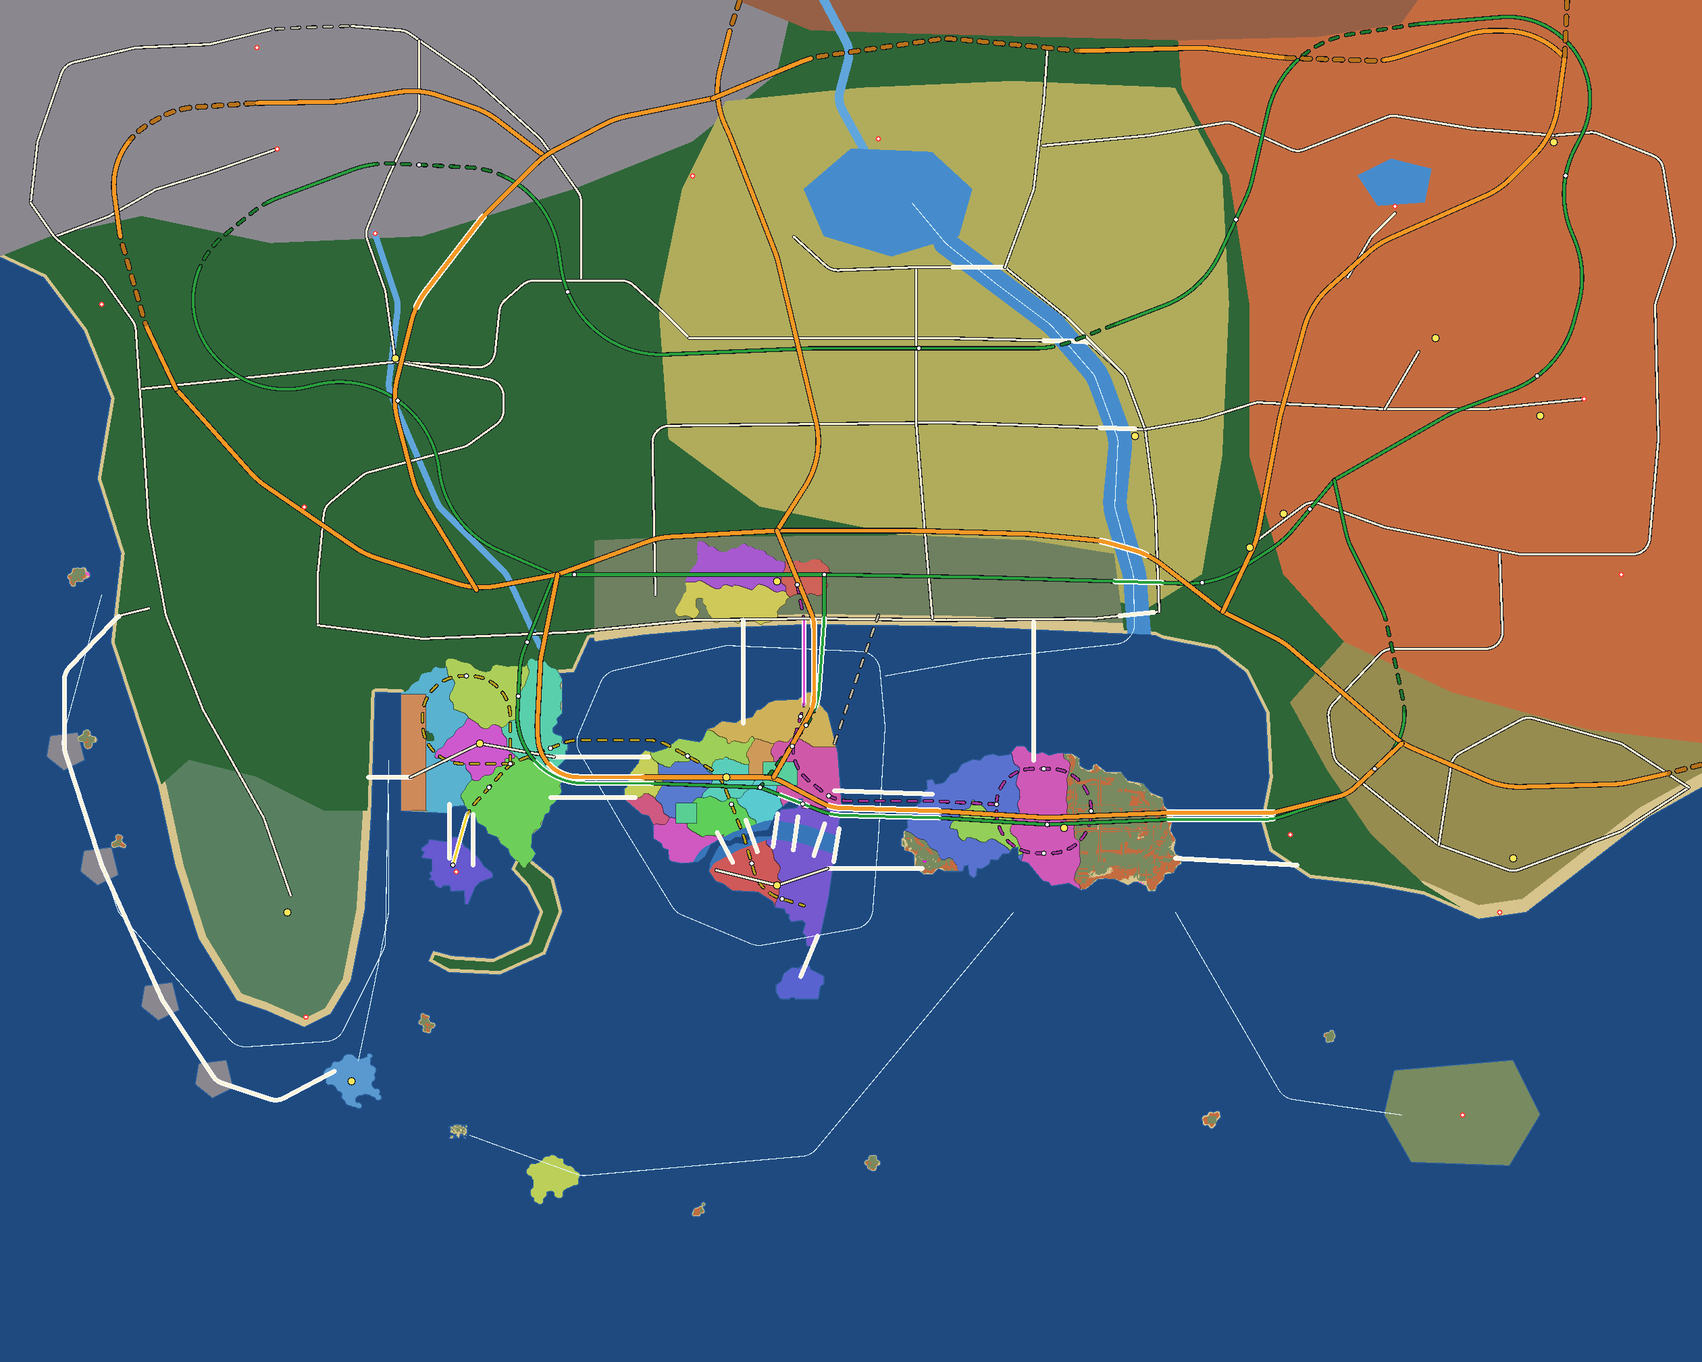
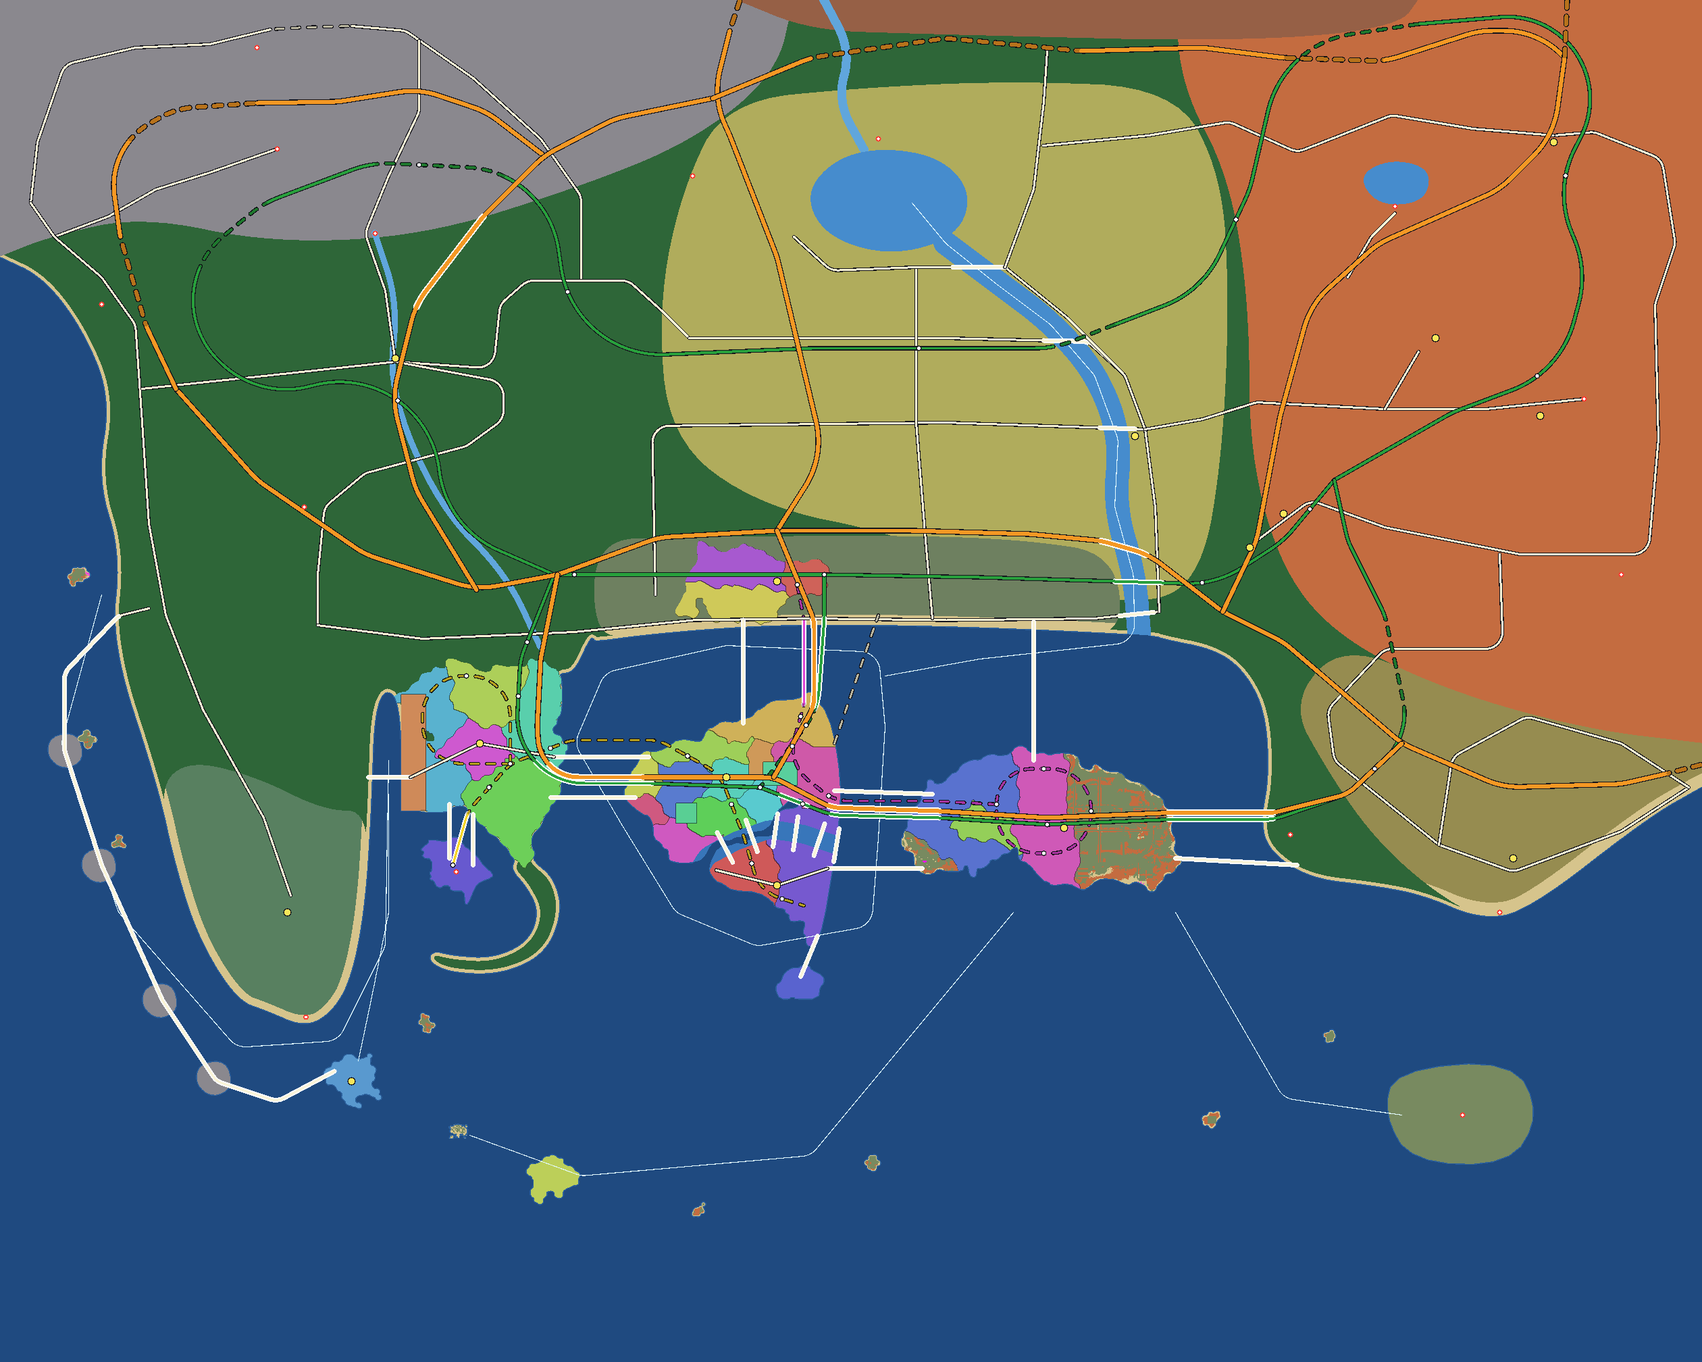
World v3's land smoothed as the skeleton's picture draws it (Chaikin's corner cutting, the frame's edges kept straight), so docs/world-v3-land.png agrees with docs/world-v3-layout-v2.png: the round lakes, the biomes' curves, the river's bends; the checks and the numbers follow
Claude-Session: https://claude.ai/code/session_015TdwbASoLBxZr1VoEZGToX

diff --git a/shared/world3-land.js b/shared/world3-land.js
@@ -65,9 +65,46 @@ export const ISLET_SOURCES = {
   islet1: [510, 605, 575, 670], islet2: [40, 842, 95, 908], islet3: [722, 313, 776, 367],
   islet4: [40, 379, 90, 427], islet5: [803, 278, 845, 322], islet6: [1230, 1078, 1276, 1126],
 };
-// How the lines are sampled into paths: the canal as the skeleton's inCanal() does, the river and the streams with
-// gentle bends.
-const RIVER_R = 150, STREAM_R = 80, CANAL_R = 60;
+// The shapes are smoothed as the skeleton's picture draws them (tools/world-v3-skeleton.py `smooth`: Chaikin's corner
+// cutting, this many rounds), so the land agrees with docs/world-v3-layout-v2.png; the canal is the skeleton's own
+// (inCanal: its path at radius 60).
+export const SMOOTH = { mainland: 4, biome: 3, lake: 3, gulf: 1, isle: 2, river: 3 };
+const CANAL_R = 60;
+
+// Chaikin's corner cutting (the picture's `smooth`): each round puts two points at 1/4 and 3/4 of every edge; an open
+// line keeps its ends.
+export function chaikin(pts, closed, it) {
+  for (let r = 0; r < it; r++) {
+    const out = [], n = pts.length;
+    for (let i = 0; i < (closed ? n : n - 1); i++) {
+      const a = pts[i], b = pts[(i + 1) % n];
+      out.push([a[0] * 0.75 + b[0] * 0.25, a[1] * 0.75 + b[1] * 0.25], [a[0] * 0.25 + b[0] * 0.75, a[1] * 0.25 + b[1] * 0.75]);
+    }
+    pts = closed ? out : [pts[0], ...out, pts[n - 1]];
+  }
+  return pts;
+}
+// A polygon smoothed, but its stretches along the frame's edges kept straight (the world's edge is not a coast): the
+// chains between its vertices on the edge are smoothed as open lines.
+export function smoothPoly(poly, it, W = FRAME_W, H = FRAME_H) {
+  const onEdge = (p) => p[0] <= 0 || p[1] <= 0 || p[0] >= W - 1 || p[1] >= H - 1;
+  const n = poly.length, k0 = poly.findIndex(onEdge);
+  if (k0 < 0) return chaikin(poly, true, it);
+  const out = [];
+  let chain = [poly[k0]];
+  for (let s = 1; s <= n; s++) {
+    const p = poly[(k0 + s) % n];
+    chain.push(p);
+    if (onEdge(p)) { const c = chain.length > 2 ? chaikin(chain, false, it) : chain; out.push(...c.slice(0, -1)); chain = [p]; }
+  }
+  return out;
+}
+// A line smoothed as the picture draws it, as a path ({ pts, s, length }, like linePath's) for pointAt / nearestOnPath.
+export function smoothPath(line, it = SMOOTH.river) {
+  const pts = chaikin(line.pts, false, it), s = [0];
+  for (let j = 1; j < pts.length; j++) { const dx = pts[j][0] - pts[j - 1][0], dy = pts[j][1] - pts[j - 1][1]; s.push(s[j - 1] + Math.sqrt(dx * dx + dy * dy)); }
+  return { pts, s, length: s[s.length - 1] };
+}
 
 // A polygon vertex on the frame's last tile is on its edge (the mainland's east side is drawn at x = 5039).
 const snap = (v, n) => (v >= n - 1 ? n : v);
@@ -161,8 +198,9 @@ export function buildLand3(today) {
 
   // 1. The mainland and its biomes (painted in order, a later one winning), each biome's district, zone and ground.
   const main = new Uint8Array(N);
-  scanPoly(MAINLAND, W, H, (y, a, b) => main.fill(1, y * W + a, y * W + b));
-  BIOMES.forEach((B, k) => scanPoly(B.poly, W, H, (y, a, b) => { for (let i = y * W + a, e = y * W + b; i < e; i++) if (main[i]) biome[i] = k + 1; }));
+  const mainland = smoothPoly(MAINLAND, SMOOTH.mainland);
+  scanPoly(mainland, W, H, (y, a, b) => main.fill(1, y * W + a, y * W + b));
+  BIOMES.forEach((B, k) => scanPoly(B.poly === MAINLAND ? mainland : smoothPoly(B.poly, SMOOTH.biome), W, H, (y, a, b) => { for (let i = y * W + a, e = y * W + b; i < e; i++) if (main[i]) biome[i] = k + 1; }));
   const byBiome = BIOMES.map((B) => BIOME3[B.key]);
   for (let i = 0; i < N; i++) {
     if (!main[i]) continue;
@@ -198,12 +236,12 @@ export function buildLand3(today) {
     if (!I.poly) continue;
     if (!I.picture) {
       const own = I.key === 'prison' ? { d: 55, z: 18, c: TERRAIN3.GRASS } : { d: 56, z: 17, c: TERRAIN3.ROCK };
-      scanPoly(I.poly, W, H, (y, a, b) => { for (let i = y * W + a, e = y * W + b; i < e; i++) { land[i] = 1; biome[i] = 0; dist[i] = own.d; zone[i] = own.z; terrain[i] = own.c; } });
+      scanPoly(smoothPoly(I.poly, SMOOTH.isle), W, H, (y, a, b) => { for (let i = y * W + a, e = y * W + b; i < e; i++) { land[i] = 1; biome[i] = 0; dist[i] = own.d; zone[i] = own.z; terrain[i] = own.c; } });
       continue;
     }
     const pic = I.picture, queue = [];
     let bx0 = W, by0 = H, bx1 = 0, by1 = 0;
-    scanPoly(I.poly, W, H, (y, a, b) => {
+    scanPoly(smoothPoly(I.poly, SMOOTH.gulf), W, H, (y, a, b) => {
       if (a < bx0) bx0 = a; if (b > bx1) bx1 = b; if (y < by0) by0 = y; if (y + 1 > by1) by1 = y + 1;
       for (let x = a; x < b; x++) {
         const i = y * W + x, si = picture(pic, x, y);
@@ -264,9 +302,9 @@ export function buildLand3(today) {
   // 5. The inland water, cut out of the land (the district and zone under it stay): the lakes, the Long Reach, the
   // streams, the canal through Metro City + Southbank.
   const cut = (kind) => (i) => { if (land[i]) { land[i] = 0; water[i] = kind; terrain[i] = TERRAIN3.WATER; } };
-  for (const L of LAKES) { const f = cut(WATER3.LAKE); scanPoly(L.poly, W, H, (y, a, b) => { for (let i = y * W + a, e = y * W + b; i < e; i++) f(i); }); }
-  stampPath(linePath(RIVER, RIVER_R).pts, RIVER.width / 2, W, H, cut(WATER3.RIVER));
-  for (const S of STREAMS) stampPath(linePath(S, STREAM_R).pts, S.width / 2, W, H, cut(WATER3.STREAM));
+  for (const L of LAKES) { const f = cut(WATER3.LAKE); scanPoly(smoothPoly(L.poly, SMOOTH.lake), W, H, (y, a, b) => { for (let i = y * W + a, e = y * W + b; i < e; i++) f(i); }); }
+  stampPath(smoothPath(RIVER).pts, RIVER.width / 2, W, H, cut(WATER3.RIVER));
+  for (const S of STREAMS) stampPath(smoothPath(S).pts, S.width / 2, W, H, cut(WATER3.STREAM));
   stampPath(linePath(CANAL, CANAL_R).pts, CANAL.width / 2, W, H, cut(WATER3.CANAL));
 
   // 6. The sea: everything else, shallow near land and deep beyond (today's rule), in today's sea district.

diff --git a/test/world3land.test.js b/test/world3land.test.js
@@ -4,7 +4,7 @@ import { test } from 'node:test';
 import assert from 'node:assert/strict';
 import { createHash } from 'node:crypto';
 import { generateCity } from '../shared/map.js';
-import { buildLand3, scanPoly, WATER3, BIOME3, DISTRICTS3, ZONES3 } from '../shared/world3-land.js';
+import { buildLand3, scanPoly, smoothPoly, smoothPath, SMOOTH, WATER3, BIOME3, DISTRICTS3, ZONES3 } from '../shared/world3-land.js';
 import {
   MAINLAND, BIOMES, ISLANDS, PIECES, CANAL, RIVER, LAKES, STREAMS, STATIONS, TOWNS, LANDMARKS, PORT_WESTPORT,
   linePath, pointAt, skeletonLines, inPoly,
@@ -53,7 +53,7 @@ test('the canal splits Metro City + Southbank into two landmasses, joined to not
     assert.equal(A.seen[idx(x, y)] || B.seen[idx(x, y)], 0, `${what} is not joined to the island`);
   }
   // all but specks of the island's land is one of the two
-  const tiles = polyTiles(metro.poly).filter((i) => land[i]);
+  const tiles = polyTiles(smoothPoly(metro.poly, SMOOTH.gulf)).filter((i) => land[i]);
   const inTwo = tiles.filter((i) => A.seen[i] || B.seen[i]).length;
   assert.ok(inTwo / tiles.length > 0.99, `${inTwo} of ${tiles.length} land tiles in the two halves`);
   // the canal is water along its line inside the island, 55 m wide
@@ -70,8 +70,9 @@ test('the canal splits Metro City + Southbank into two landmasses, joined to not
 test('each gulf island: its land is its polygon, its districts the picture\'s in about today\'s proportions', () => {
   const W0 = today.w, H0 = today.h;
   for (const I of ISLANDS.filter((I) => I.picture)) {
-    const tiles = polyTiles(I.poly), area = shoelace(I.poly);
-    assert.ok(Math.abs(tiles.length - area) / area < 0.02, `${I.key}: ${tiles.length} tiles vs the polygon's ${area}`);
+    const shape = smoothPoly(I.poly, SMOOTH.gulf), tiles = polyTiles(shape), area = shoelace(shape), raw = shoelace(I.poly);
+    assert.ok(Math.abs(tiles.length - area) / area < 0.01, `${I.key}: ${tiles.length} tiles vs the (smoothed) polygon's ${area}`);
+    assert.ok(Math.abs(tiles.length - raw) / raw < 0.03, `${I.key}: ${tiles.length} tiles vs the skeleton's polygon's ${raw}`);
     const landT = tiles.filter((i) => land[i]);
     const inland = tiles.filter((i) => !land[i] && water[i] !== WATER3.CANAL);
     assert.equal(inland.length, 0, `${I.key}: all its polygon is land (or the canal)`);
@@ -98,11 +99,11 @@ test('each gulf island: its land is its polygon, its districts the picture\'s in
 
 test('the lakes, the Long Reach, the streams and the canal are water; the sea is deep away from the shore', () => {
   for (const lk of LAKES) {
-    const t = polyTiles(lk.poly);
+    const t = polyTiles(smoothPoly(lk.poly, SMOOTH.lake));
     assert.ok(t.length > 1000 && t.every((i) => water[i] === WATER3.LAKE), lk.name);
   }
-  for (const [line, kind, r] of [[RIVER, WATER3.RIVER, 150], ...STREAMS.map((s) => [s, WATER3.STREAM, 80])]) {
-    const p = linePath(line, r);
+  for (const [line, kind] of [[RIVER, WATER3.RIVER], ...STREAMS.map((s) => [s, WATER3.STREAM])]) {
+    const p = smoothPath(line);
     for (let s = 0; s <= p.length; s += 8) {
       const [x, y] = pointAt(p, s), w = water[idx(Math.min(W - 1, x), Math.min(H - 1, y))];
       assert.ok(w !== WATER3.LAND, `${line.name} at ${Math.round(x)},${Math.round(y)} is water`);
@@ -127,16 +128,19 @@ test('every station, town and landmark is on land, in its biome or its place\'s 
     for (const p of list) {
       const [x, y] = p.at, i = idx(x, y), name = `${what} ${p.name} (${p.line || p.kind || ''}) at ${x},${y}`;
       if (ON_WATER.has(p.name)) continue;
-      if (!land[i]) { bad.push(`${name}: on water (kind ${water[i]})`); continue; }
+      // (a stream may run through a town and under its station: Silver Thread Creek through Timber Bend, as the
+      // skeleton's picture draws it - a culvert, as under the roads)
+      if (!land[i] && water[i] !== WATER3.STREAM) { bad.push(`${name}: on water (kind ${water[i]})`); continue; }
       const isl = ISLANDS.find((I) => I.poly && inPoly(I.poly, x, y));
       const placed = ISLANDS.find((I) => I.placement && (() => { const [a, b, c, d] = placedRect(PLACEMENTS[I.placement]); return x >= a && y >= b && x < c && y < d; })());
       if (isl?.picture) { if (!isl.picture.ids.includes(dist[i])) bad.push(`${name}: district ${dist[i]}, not ${isl.name}'s`); continue; }
       if (isl) { if (dist[i] !== (isl.key === 'prison' ? 55 : 56)) bad.push(`${name}: district ${dist[i]} on ${isl.name}`); continue; }
       if (placed) continue;   // (today's island, copied whole: on land is all)
       if (x >= PORT_WESTPORT.rect[0] && y >= PORT_WESTPORT.rect[1] && x < PORT_WESTPORT.rect[2] && y < PORT_WESTPORT.rect[3]) continue;
-      if (!inPoly(MAINLAND, x, y)) { bad.push(`${name}: off the skeleton's land`); continue; }
+      // the biome the skeleton's polygons give, smoothed as its picture draws them (and the land does)
+      if (!inPoly(smoothPoly(MAINLAND, SMOOTH.mainland), x, y)) { bad.push(`${name}: off the skeleton's land`); continue; }
       let k = -1;
-      BIOMES.forEach((B, j) => { if (inPoly(B.poly, x, y)) k = j; });
+      BIOMES.forEach((B, j) => { if (inPoly(B.poly === MAINLAND ? smoothPoly(MAINLAND, SMOOTH.mainland) : smoothPoly(B.poly, SMOOTH.biome), x + 0.5, y + 0.5)) k = j; });   // (the tile's centre, as the fill)
       if (biome[i] !== k + 1) { bad.push(`${name}: biome ${biome[i]}, the skeleton's ${BIOMES[k]?.key}`); continue; }
       const P = piece(x, y);
       if (dist[i] < 47 && !(P && P.picture.ids.includes(dist[i]))) bad.push(`${name}: district ${dist[i]}`);

diff --git a/docs/WORLD-V3.md b/docs/WORLD-V3.md
@@ -1395,7 +1395,11 @@ sizes"): the skeleton's polygons and lines turned into the per-tile layers a bui
 built city of today's world (`generateCity(1337)`). Nothing live imports it. The picture: `node tools/world3-land.mjs`
 draws `docs/world-v3-land.png` (1 px = 2 m, 2520 x 2016: the water's shades, the biomes' ground, today's places in their
 district colours with darker borders, the skeleton's lines over it) and prints the numbers below. It agrees with
-`docs/world-v3-layout-v2.png`.
+`docs/world-v3-layout-v2.png`: the shapes are smoothed as that picture draws them (Chaikin's corner cutting, its
+`smooth`: the mainland 4 rounds, the biomes and lakes 3, Prison Island and the Egret Rocks 2, the gulf's islands 1,
+the river and the streams 3; stretches along the frame's edges kept straight), and the canal is the skeleton's own
+path (`inCanal`, radius 60). Polygons are filled by scanline (the tiles whose centres are inside), lines stamped as
+capsules of their width.
 
 **The layers** (one byte per tile each, row-major, 20.3 M tiles):
 
@@ -1413,27 +1417,27 @@ district colours with darker borders, the skeleton's lines over it) and prints t
 
 | id | District | style | tier | zone | ground | km² |
 |---|---|---|---|---|---|---|
-| 47 | Highland Woods | wild | wild | 11 | forest | 3.10 |
+| 47 | Highland Woods | wild | wild | 11 | forest | 3.15 |
 | 48 | Granite Peaks | wild | wild | 12 | rock | 1.40 |
-| 49 | Willow Valley | rural | rural | 13 | farm | 2.12 |
+| 49 | Willow Valley | rural | rural | 13 | farm | 2.10 |
 | 50 | Red Rock Desert | desert | wild | 14 | desert | 2.72 |
-| 51 | North Ridge | rocky | wild | 15 | scrub | 0.20 |
-| 52 | Sandpiper Coast | beach | mid | 16 | grass, beaches | 0.53 |
-| 53 | Egret Coast | wild | wild | 17 | marsh, dunes | 0.34 |
-| 54 | Northshore Beaches | beach | mid | 8 | grass, beaches | 0.34 |
-| 55 | Prison Island | rocky | rough | 18 | grass | 0.11 |
+| 51 | North Ridge | rocky | wild | 15 | scrub | 0.19 |
+| 52 | Sandpiper Coast | beach | mid | 16 | grass, beaches | 0.52 |
+| 53 | Egret Coast | wild | wild | 17 | marsh, dunes | 0.33 |
+| 54 | Northshore Beaches | beach | mid | 8 | grass, beaches | 0.33 |
+| 55 | Prison Island | rocky | rough | 18 | grass | 0.10 |
 | 56 | Egret Rocks | rocky | wild | 17 | rock | 0.03 |
 
 **The numbers** (this machine, node 22, two shared cores):
-- `buildLand3` takes **0.93 s** (scanline fills, two chamfer passes, the islands' floods); the layers are 122 MB
-  (6 x 20.3 MB), the process grows by about 130 MB. Today's world, built first, takes 4.4-4.7 s.
-- The frame is 20.32 km²: **11.48 km² land**; deep sea 8.49, shallows 0.06, lakes 0.14, the Long Reach 0.10, the canal
+- `buildLand3` takes **0.93-0.97 s** (scanline fills, two chamfer passes, the islands' floods); the layers are 122 MB
+  (6 x 20.3 MB), the process grows by 115-130 MB. Today's world, built first, takes 4.2-4.7 s.
+- The frame is 20.32 km²: **11.47 km² land**; deep sea 8.50, shallows 0.06, lakes 0.13, the Long Reach 0.10, the canal
   0.02, streams 0.04.
-- Biomes (land): Highland Woods 3.31 km² (Westport's districts on it), Red Rock Desert 2.72, Willow Valley 2.12, Granite
-  Peaks 1.40, Sandpiper Coast 0.53, Northshore 0.41, Egret Coast 0.34, North Ridge 0.20.
-- Ground: forest 3.01, desert 2.74, farm 1.91, grass 1.70, rock 1.44, marsh 0.30, scrub 0.19, sand 0.18 km².
+- Biomes (land): Highland Woods 3.37 km² (Westport's districts on it), Red Rock Desert 2.72, Willow Valley 2.10, Granite
+  Peaks 1.40, Sandpiper Coast 0.52, Northshore 0.40, Egret Coast 0.33, North Ridge 0.19.
+- Ground: forest 3.06, desert 2.73, farm 1.89, grass 1.68, rock 1.43, marsh 0.30, scrub 0.19, sand 0.18 km².
 - Today's places at their gulf size: Metro City + Southbank 0.28 km² (15 districts), Cedar Isle 0.24, Westport 0.18
-  and Port Westport 0.03, the airport 0.02, Northshore 0.07 in today's three districts plus 0.34 of beach towns.
+  and Port Westport 0.03, the airport 0.02, Northshore 0.07 in today's three districts plus 0.33 of beach towns.
 
 **Checks** (`test/world3land.test.js`, about 8 s: today's world is built once, the land twice):
 - built twice it is the same (a hash of every layer); the new districts and zones are numbered after today's;
@@ -1441,13 +1445,14 @@ district colours with darker borders, the skeleton's lines over it) and prints t
   reaches the mainland, Cedar Isle, Pelican Key or Westport, the two hold over 99% of the island's land), and it is
   canal all along its line inside the island;
 - each gulf island's land is its polygon (the tiles within 2% of its area; all land but the canal) and today's land at
-  the picture's scale squared (Metro City 1.10x for its new east shore, the others 0.99-1.02x); its districts are only
+  the picture's scale squared (Metro City 1.09x for its new east shore, the others 0.99-1.01x); its districts are only
   its picture's, each within 6 points of its share of today's (the largest: Metro City's Bayside Heights, +4.8, which
   runs on to the new east shore; Cedar Isle's within 0.2);
 - the lakes, the Long Reach and the streams are water along their lines, the Long Reach about 70 m across; the sea is
   deep out in the gulf and at sea, shallow at the port's quay;
-- every station, town and landmark is on land, in its biome (the skeleton's polygons) or its place's districts; on
-  water on purpose: Silver Thread Falls (on its creek);
+- every station, town and landmark is on land, in its biome (the skeleton's polygons, smoothed) or its place's
+  districts; on water on purpose: Silver Thread Falls (on its creek); a stream may run through a town and under its
+  station (Silver Thread Creek through Timber Bend, as the skeleton's picture draws it: a culvert);
 - every highway and arterial is on land but along its bridges (the Harbor Tunnel goes under the channel; streams get
   culverts);
 - the frame's edges: land along the north (but Kestrel Creek's mouth), the mainland's west and east sides as drawn, the

diff --git a/docs/DEVLOG.md b/docs/DEVLOG.md
@@ -6487,7 +6487,7 @@ imports it.
 - **`shared/world3-land.js`** `buildLand3(today)` -> `{ w, h, layers: { land, water, biome, terrain, dist, zone } }`
   from a built city of today's world:
   - **land and water:** the mainland, the islands and Port Westport filled by scanline (not a point-in-polygon test per
-    tile); the lakes, the Long Reach (70 m), the streams and the canal (55 m) cut out as their kinds of water; the sea
+    tile), their shapes smoothed as the skeleton's picture draws them (so the two agree); the lakes, the Long Reach (70 m), the streams and the canal (55 m) cut out as their kinds of water; the sea
     shallow within 3 m of land and deep beyond (today's rule);
   - **biome and terrain:** `BIOMES` painted in order, each with its ground (forest, rock, farm, desert, scrub, marsh,
     grass) and beaches along the sea as wide as the biome has them (Sandpiper 40 m, Northshore 30, Egret 24 - its
@@ -6496,9 +6496,9 @@ imports it.
     only the picture's ids, only on the place's land; on an island the gaps - Metro City's new east shore - flooded
     from the nearest), today's small islands and islets copied whole, Port Westport (26), and ten new districts (47-56:
     a district per biome, Prison Island, the Egret Rocks) in eight new zones (11-18), shaped as `DISTRICTS` entries.
-  - Deterministic (integer tiles, + - * / and floor/ceil only); 0.93 s, 122 MB of layers.
+  - Deterministic (integer tiles, + - * / and floor/ceil only); about a second, 122 MB of layers.
 - **`tools/world3-land.mjs`** draws it to `docs/world-v3-land.png` (1 px = 2 m, the skeleton's lines over it) and prints
-  the numbers (WORLD-V3.md 8.2): 11.48 km² of land in the 20.32 km² frame; Metro City + Southbank 0.28 km², Cedar Isle
+  the numbers (WORLD-V3.md 8.2): 11.47 km² of land in the 20.32 km² frame; Metro City + Southbank 0.28 km², Cedar Isle
   0.24, Westport 0.18 - part 7's sizes.
 - **The skeleton, fixed** (`shared/world3-skeleton.js`; its picture redrawn): four arterials crossed the Long Reach with
   no bridge (Shore Road, Valley Road North, Valley Road, Lake Road - now bridged, and the Lake / Willow / Kestrel Road
